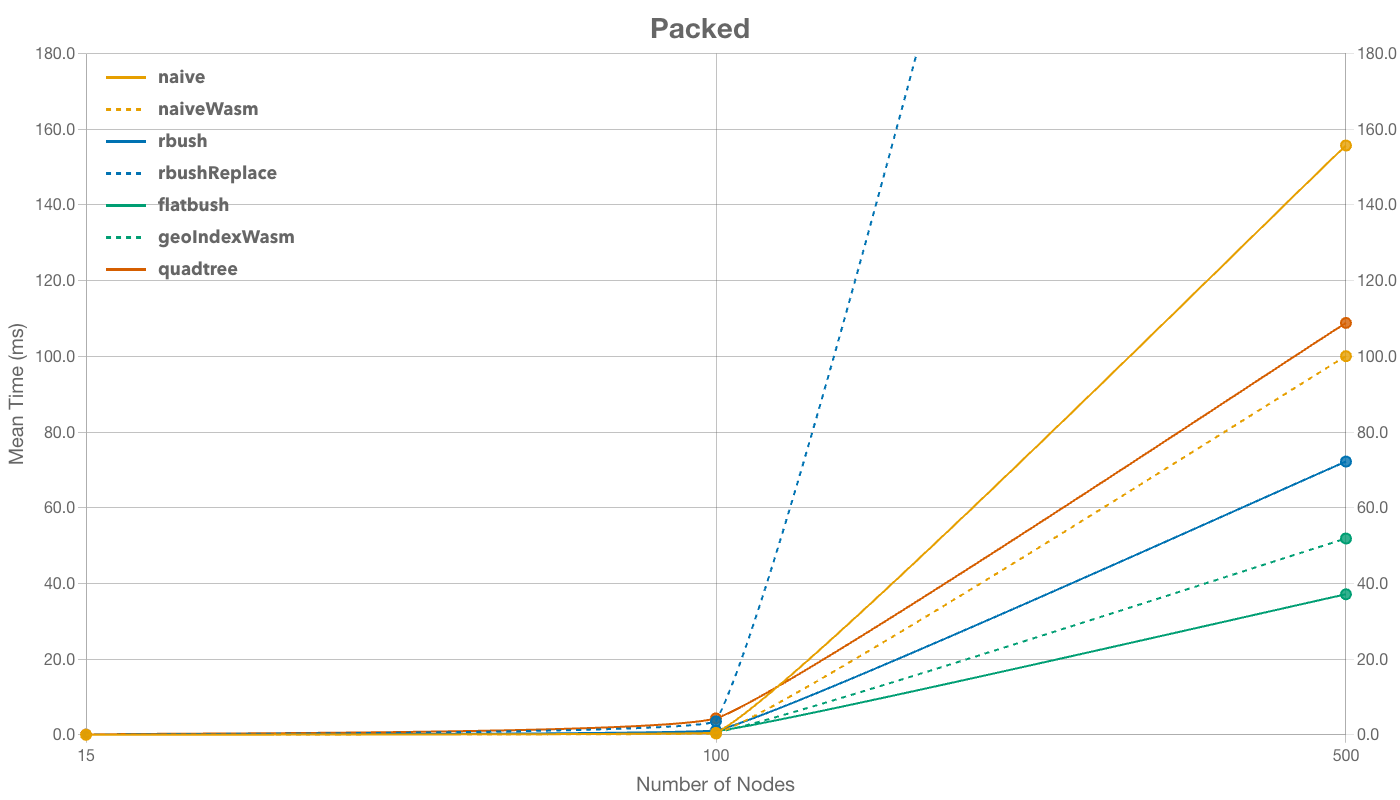
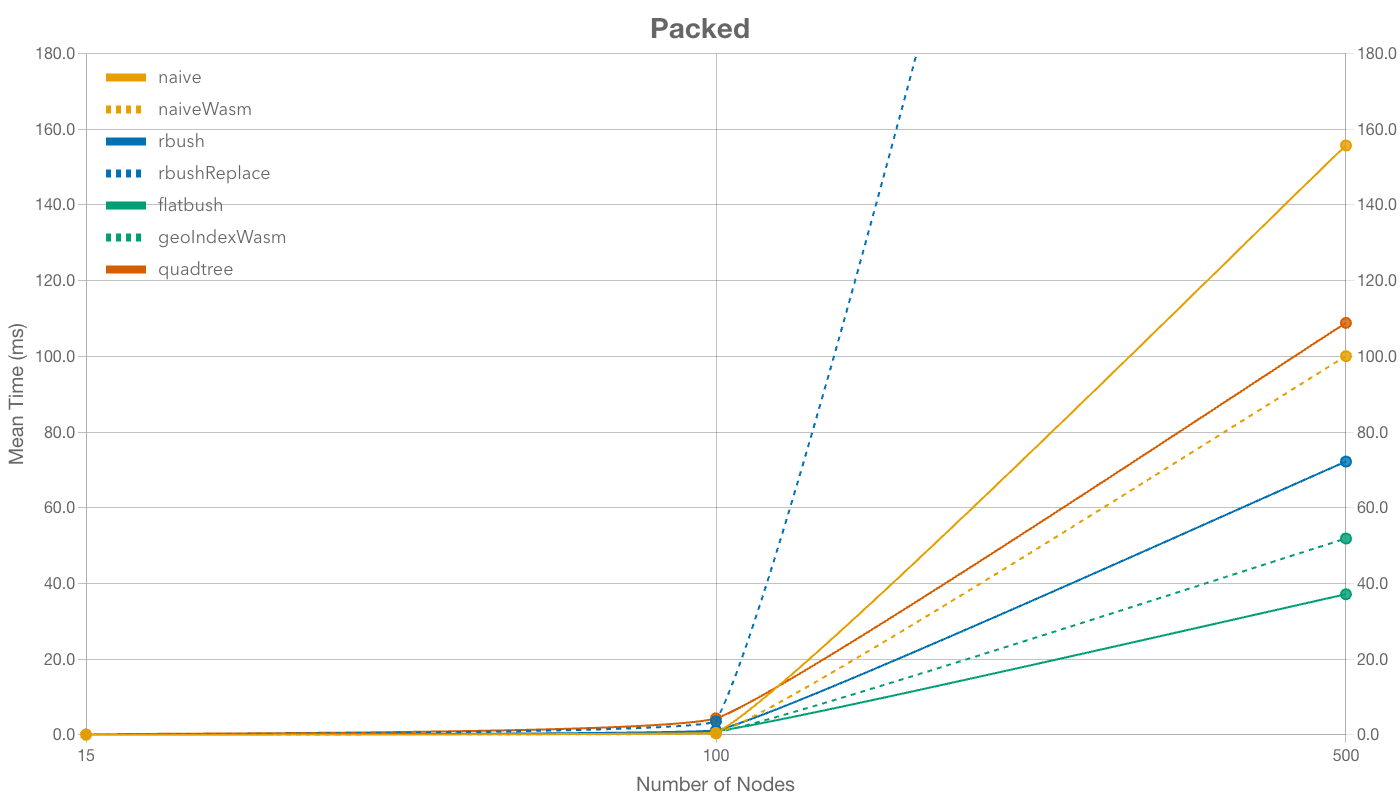
make legend nicer

Changed region(s): [[0.0614, 0.0938, 0.215, 0.3438]]

diff --git a/scripts/generate-bench-images.ts b/scripts/generate-bench-images.ts
@@ -188,10 +188,10 @@ async function generateBenchImages() {
 						const ds = dataset as any;
 						const y = legendY + i * lineHeight;
 
-						// Draw line (with dash if applicable)
-						ctx.beginPath();
-						ctx.strokeStyle = ds.borderColor as string;
-						ctx.lineWidth = 3;
+					// Draw line (with dash if applicable)
+					ctx.beginPath();
+					ctx.strokeStyle = ds.borderColor as string;
+					ctx.lineWidth = 8;
 						if (ds.borderDash && ds.borderDash.length > 0) {
 							ctx.setLineDash(ds.borderDash);
 						} else {
@@ -201,10 +201,10 @@ async function generateBenchImages() {
 						ctx.lineTo(legendX + boxWidth, y + boxHeight);
 						ctx.stroke();
 
-						// Draw label
-						ctx.setLineDash([]);
-						ctx.fillStyle = '#666';
-						ctx.font = 'bold 18px sans-serif';
+					// Draw label
+					ctx.setLineDash([]);
+					ctx.fillStyle = '#666';
+					ctx.font = '18px sans-serif';
 						ctx.textBaseline = 'middle';
 						ctx.fillText(ds.label as string, legendX + boxWidth + 12, y + boxHeight);
 					});
